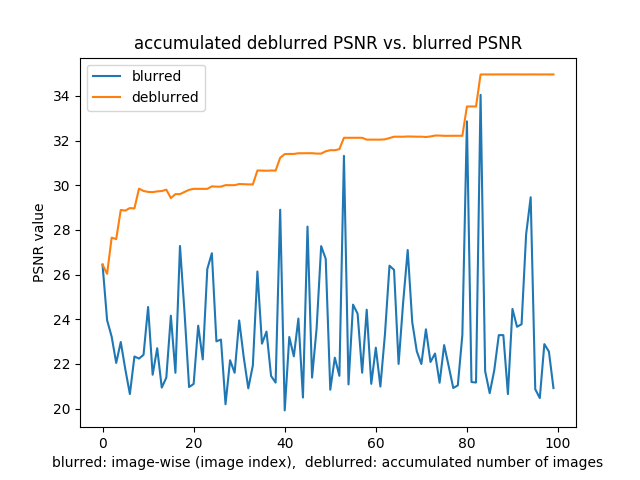
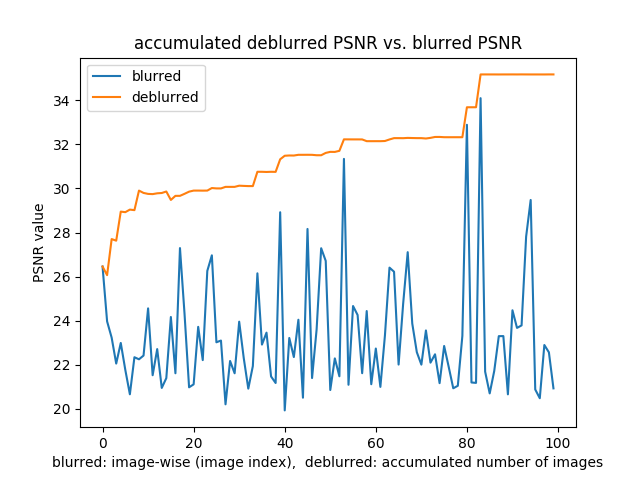
minor fix: instead of flooring when type casting to int, we first round and then cast. for example, that results 1.9 to be considered as 2 and not 1. Provided slightly better results w.r.t. PSNR values.

diff --git a/HW1/hw1.py b/HW1/hw1.py
@@ -2,6 +2,7 @@ from forward_inverse_problem import forward_blur, inverse_deblur, estimate_fft_u
 from psf import generate_psfs, psf_fine
 from readers import read_motion_paths, read_original_image
 from visualization import visualize_images, visualize_psfs, visualize_psnrs
+import numpy as np
 
 if __name__ == '__main__':
     X, Y = read_motion_paths()
@@ -13,12 +14,14 @@ if __name__ == '__main__':
     orig_image = read_original_image()
 
     blurred_images = forward_blur(orig_image, psfs)
-    blurred_images = list(map(lambda x: x.astype(int), blurred_images))  # I guess we should consider integers
+    blurred_images = \
+        list(map(lambda x: np.around(x).astype(int), blurred_images))  # I guess we should consider integers
     # visualize_images(blurred_images, directory='blurred', file_name_prefix='blurred', title_prefix='Blurred')
 
     deblurred_images = [inverse_deblur(blurred_images[:i + 1], estimate_fft_using_max)
                         for i in range(len(blurred_images))]
-    deblurred_images = list(map(lambda x: x.astype(int), deblurred_images))  # I guess we should consider integers
+    deblurred_images = \
+        list(map(lambda x: np.around(x).astype(int), deblurred_images))  # I guess we should consider integers
     # visualize_images(deblurred_images, directory='deblurred', file_name_prefix='deblurred', title_prefix='De Blurred')
 
     visualize_psnrs(orig_image, blurred_images, deblurred_images, show=True)

diff --git a/HW1/visualization.py b/HW1/visualization.py
@@ -4,7 +4,6 @@ import os
 
 import numpy as np
 import matplotlib.pyplot as plt
-from matplotlib import cm
 from skimage.measure import compare_psnr
 
 
